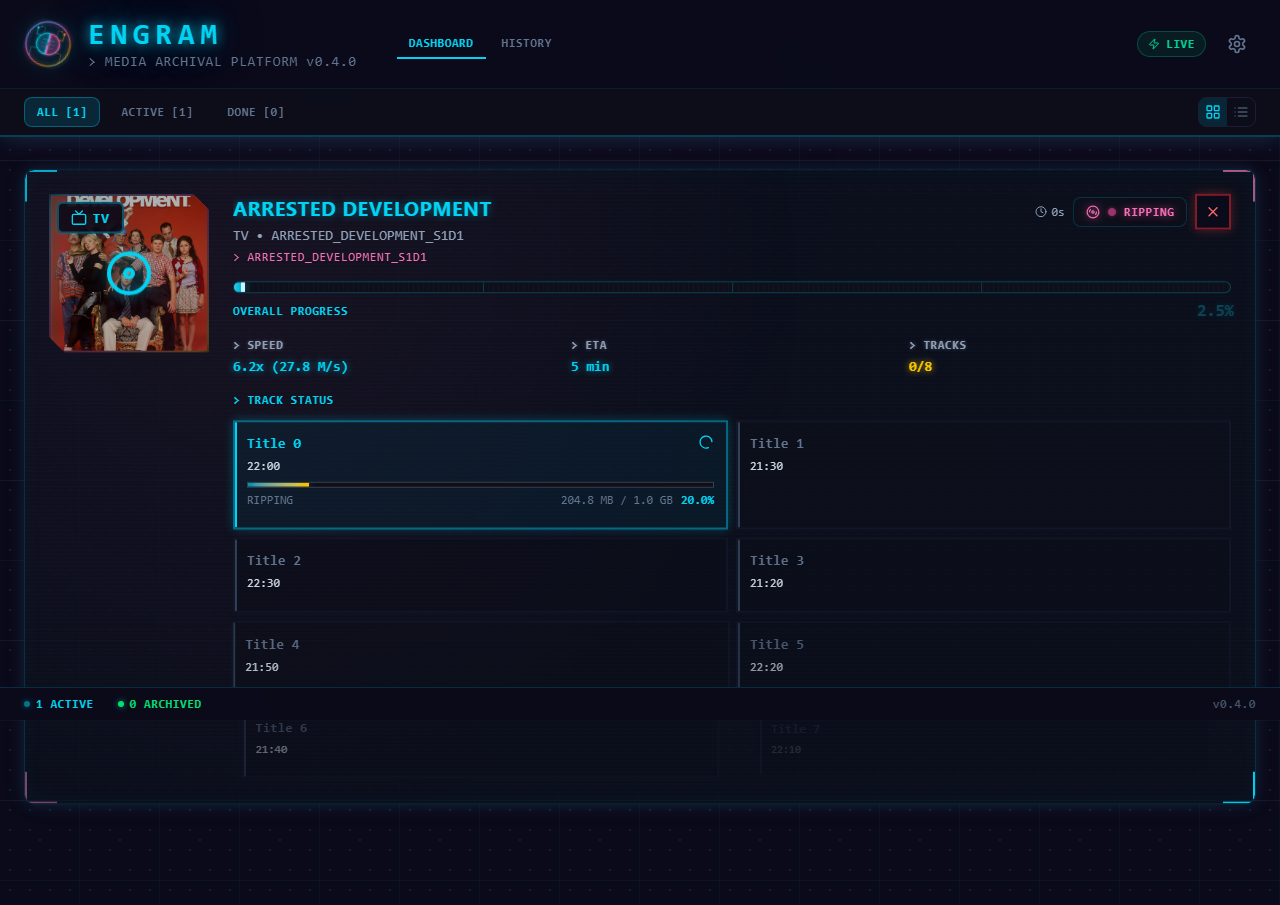
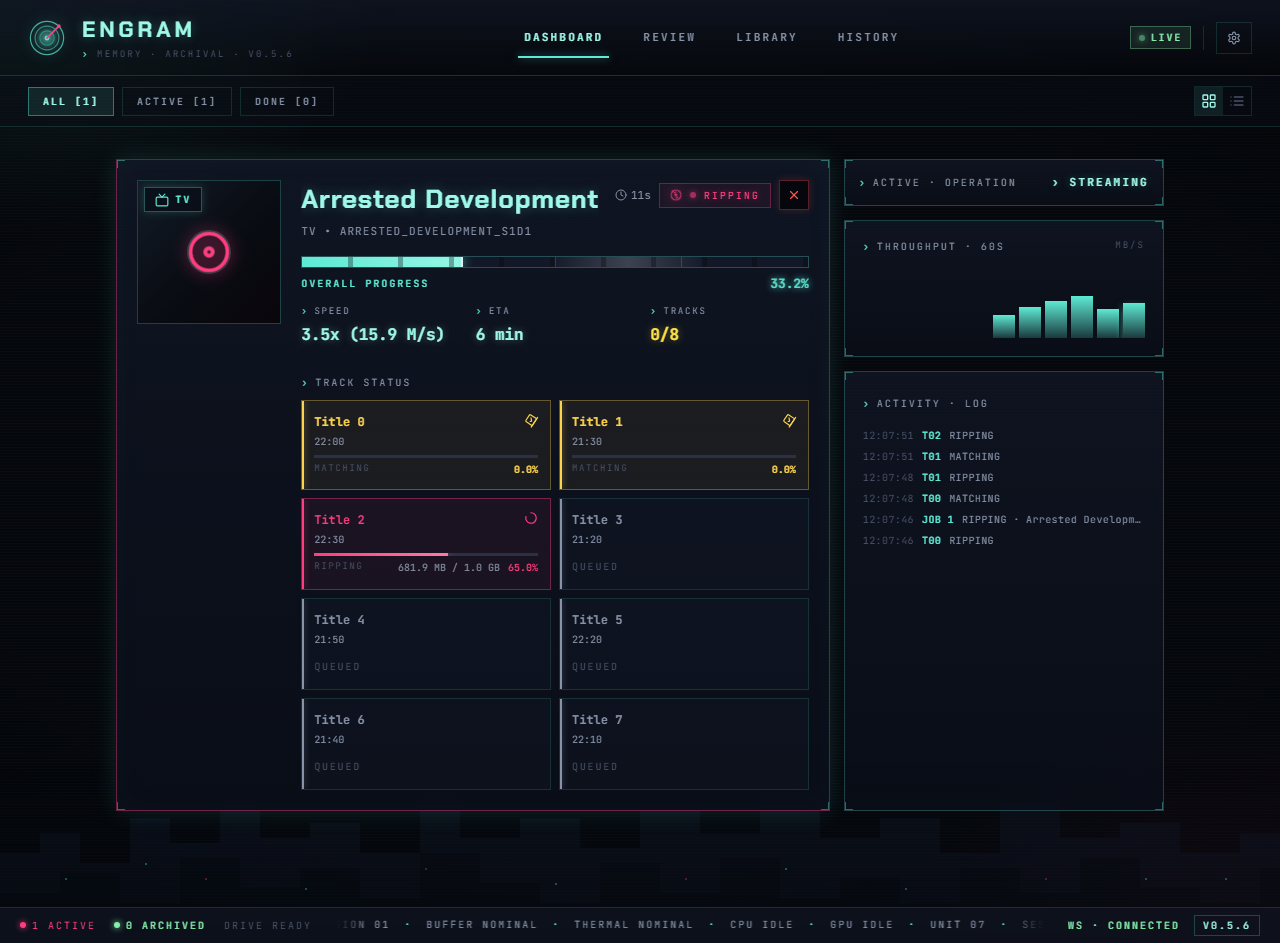
chore: bump to v0.6.0, update screenshots and changelog
- Bump backend version 0.5.6 to 0.6.0
- Bump frontend version 0.5.4 to 0.6.0
- Replace all README screenshots with new Synapse v2 UI captures
- Expand screenshot table: add history page, review queue, settings wizard
- Update README features list and add OpenSubtitles configuration note
- Fix .gitignore: /screenshots/ (root-level only) to stop shadowing docs/screenshots/
- Write CHANGELOG entry for v0.6.0

diff --git a/README.md b/README.md
@@ -29,21 +29,26 @@
   </tr>
   <tr>
     <td><img src="docs/screenshots/08-match-candidates.png" alt="Episode matching" /><br /><sub>Audio fingerprint matching with confidence scores</sub></td>
-    <td><img src="docs/screenshots/09-completed.png" alt="Completed" /><br /><sub>Completed job with poster art</sub></td>
+    <td><img src="docs/screenshots/09-completed.png" alt="Completed" /><br /><sub>Completed job with activity log</sub></td>
   </tr>
   <tr>
-    <td><img src="docs/screenshots/10-movie-card.png" alt="Movie disc" /><br /><sub>Movie disc detection</sub></td>
-    <td><img src="docs/screenshots/12-movie-completed.png" alt="Movie completed" /><br /><sub>Movie ripped and organized</sub></td>
+    <td><img src="docs/screenshots/10-movie-card.png" alt="Movie disc" /><br /><sub>Movie disc detection with MOVIE badge</sub></td>
+    <td><img src="docs/screenshots/24-history-page.png" alt="History & Analytics" /><br /><sub>Job history with stats dashboard and drill-down</sub></td>
+  </tr>
+  <tr>
+    <td><img src="docs/screenshots/26-review-page.png" alt="Review queue" /><br /><sub>Human-in-the-loop episode review queue</sub></td>
+    <td><img src="docs/screenshots/22-settings-step3-tmdb.png" alt="Settings wizard" /><br /><sub>Setup wizard — TMDB &amp; OpenSubtitles configuration</sub></td>
   </tr>
 </table>
 
 ## Features
 
 - **Automatic disc detection** — monitors optical drives and starts processing on insertion
-- **Smart classification** — distinguishes TV shows from movies using duration analysis, TMDB lookup, and TheDiscDB
+- **Smart classification** — distinguishes TV shows from movies using duration analysis, TMDB lookup, and TheDiscDB; uses MakeMKV disc name as a TMDB fallback for merged-word volume labels (e.g. `STRANGENEWWORLDS_SEASON3`)
 - **Audio fingerprint matching** — identifies TV episodes via ASR transcription matched against subtitles
+- **Subtitle downloads** — fetches subtitles via OpenSubtitles.com REST API (preferred, free tier available) with Addic7ed as fallback
 - **Real-time dashboard** — cyberpunk-themed web UI with WebSocket live updates, progress tracking, and notifications
-- **Human-in-the-loop** — review queue for low-confidence matches with competing candidate display
+- **Human-in-the-loop** — review queue for low-confidence matches, unreadable disc labels, and ambiguous content with pre-filled correction modal
 - **Job history & analytics** — searchable archive of all completed/failed jobs with drill-down detail panel, processing timeline, and TheDiscDB metadata
 - **TheDiscDB integration** — automatic disc identification via content hash fingerprinting with persisted title mappings
 - **Responsive design** — works on desktop and mobile with compact/expanded view modes
@@ -123,6 +128,8 @@ Open http://localhost:5173 in your browser.
 On first launch the Config Wizard walks you through setup: MakeMKV path, library paths, TMDB token, and more. Settings are stored in the database and editable from the Settings page.
 
 **TMDB**: The wizard asks for a **Read Access Token** (v4 auth) from your [TMDB API Settings](https://www.themoviedb.org/settings/api). This is the long JWT string starting with `eyJ...`, not the shorter v3 API Key.
+
+**OpenSubtitles** (optional): For more reliable subtitle downloads, configure an [OpenSubtitles.com](https://www.opensubtitles.com) account. Free tier allows 5 downloads/day; consumer API keys at [opensubtitles.com/consumers](https://www.opensubtitles.com/en/consumers). Without credentials, Engram falls back to scraping Addic7ed.
 
 An optional `backend/.env` file can override server-level defaults:
 

diff --git a/CHANGELOG.md b/CHANGELOG.md
@@ -2,6 +2,26 @@
 
 All notable changes to Engram will be documented in this file.
 
+## [0.6.0] - 2026-05-02
+
+### Added
+- **OpenSubtitles.com REST API**: subtitle downloads now use the official `opensubtitlescom` REST API as the primary path (batch-downloads a whole season in one search call). Addic7ed and OpenSubtitles.org web scrapers remain as per-episode fallbacks. Configure API key, username, and password in Settings → TMDB & Subtitles.
+- **Disc name identification via MakeMKV CINFO codes**: extractor now captures the disc display name from `CINFO:2` (e.g. `"Star Trek: Strange New Worlds - Season 3 (Disc 1)"`). When the volume label produces a failed TMDB lookup, the disc name is parsed and tried as a second-chance TMDB query — silently resolving merged-word labels like `STRANGENEWWORLDS_SEASON3` without any user prompt.
+- **TMDB-failure review gate**: if both the volume label and disc name fail TMDB lookup for a TV show, the job now enters `REVIEW_NEEDED` state with the garbled name pre-filled in the correction modal (previously the job would silently start ripping with a wrong title).
+- **NamePromptModal pre-fill**: when a job enters review due to an unreadable or merged-word label, the modal opens with `detected_title`, content type, and season number pre-populated — the user only needs to correct the show name.
+- **Disc analyst static method** `_parse_disc_name()`: parses `"Show Title - Season N (Disc N)"` MakeMKV format into `(title, season)` tuple.
+- 14 new unit tests in `tests/unit/test_disc_name_identification.py` covering extractor CINFO parsing, analyst disc-name parsing, identification coordinator fallback logic, and review gate behavior.
+
+### Fixed
+- **CINFO vs DINFO**: extractor was reading `DINFO:6` (which doesn't exist in MakeMKV robot-mode output) instead of `CINFO:2`. This meant the disc display name was never captured, so the TMDB disc-name fallback never fired for any disc.
+- **Scraper timeouts**: Addic7ed and OpenSubtitles.org request timeouts reduced from 30 s to 8 s so failures are fast when those sites block requests.
+- **Simulation service**: `insert_disc_from_staging` no longer crashes when `staging_path` contains paths with non-standard separators.
+
+### Changed
+- Subtitle download strategy: OpenSubtitles.com REST API is tried first (entire season at once); only falls back to per-episode scraping if credentials are absent or the API call fails.
+- `SRT` validation (`is_valid_srt_file`) now deletes and re-downloads cached files that contain HTML (Cloudflare challenge pages) rather than surfacing them as valid subtitles.
+- `opensubtitlescom>=0.1.0` added to backend dependencies.
+
 ## [0.5.0] - 2026-04-05
 
 ### Changed
